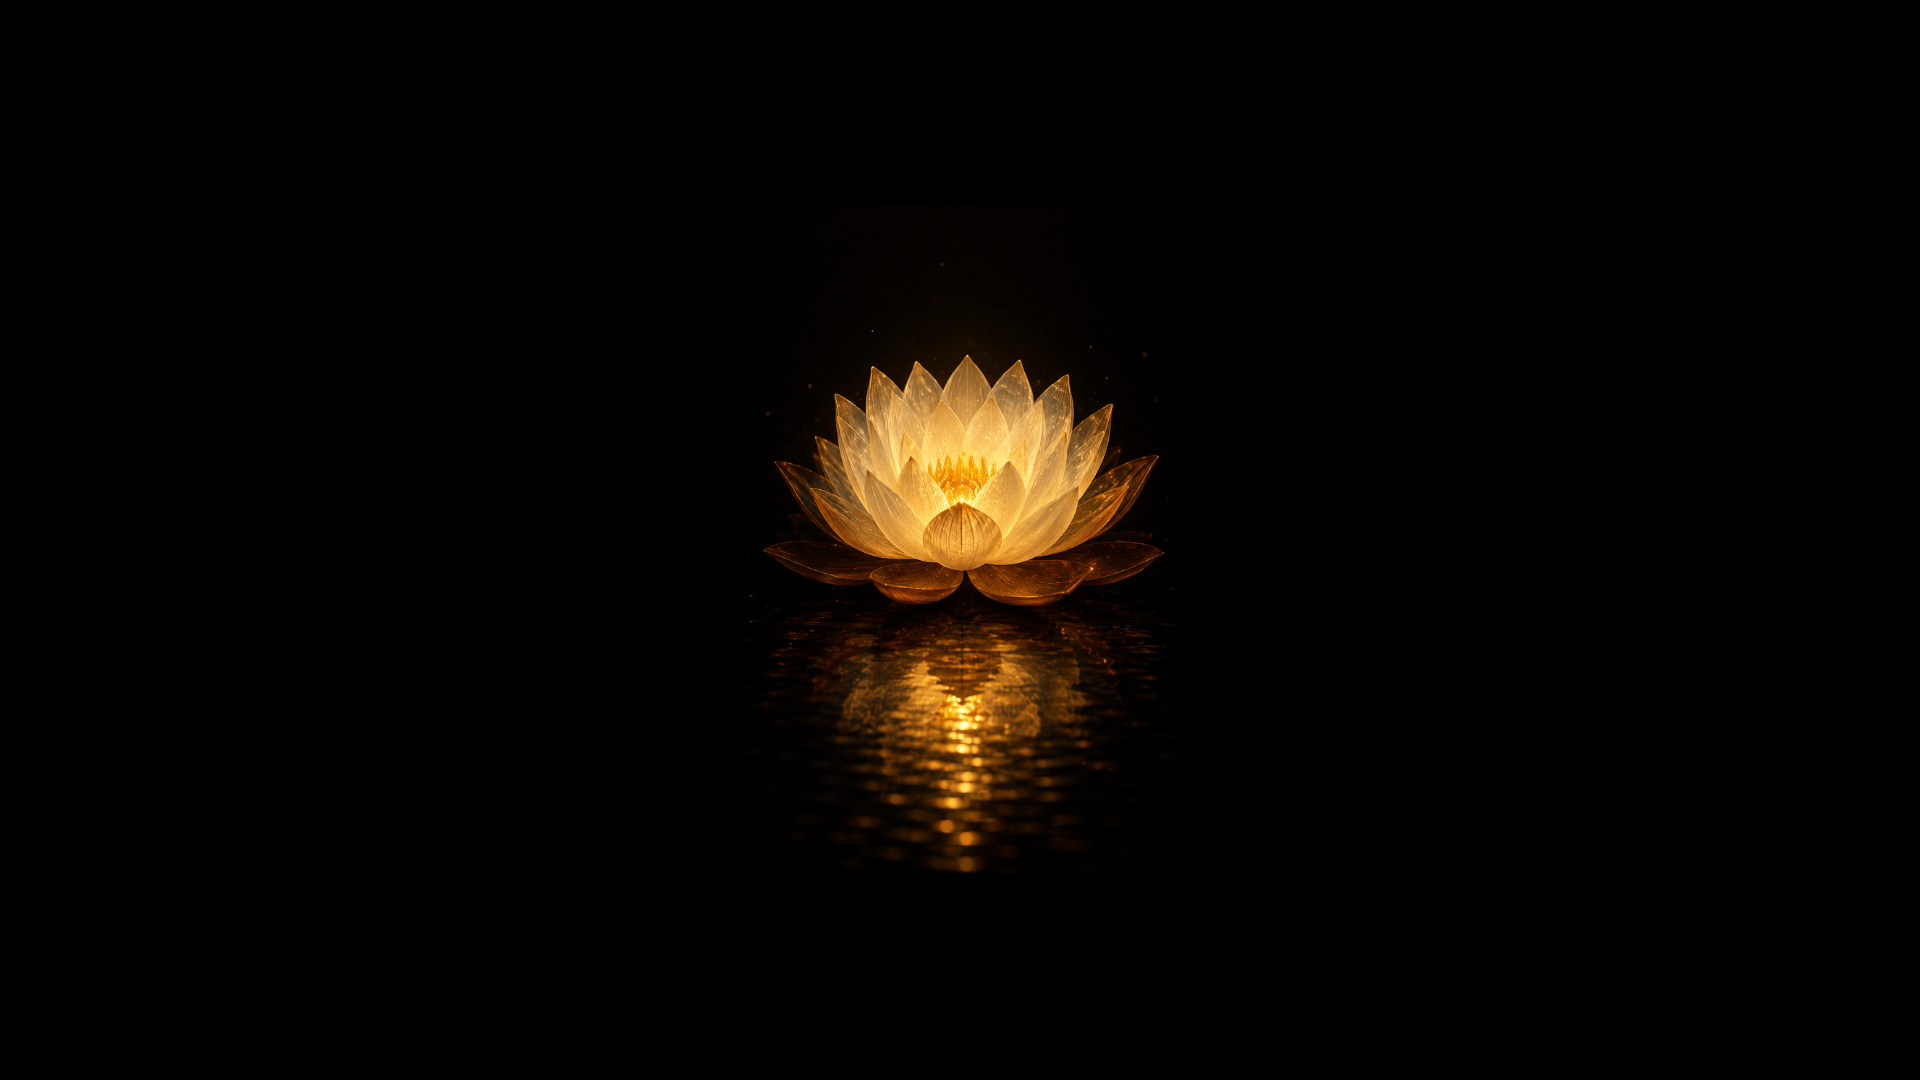
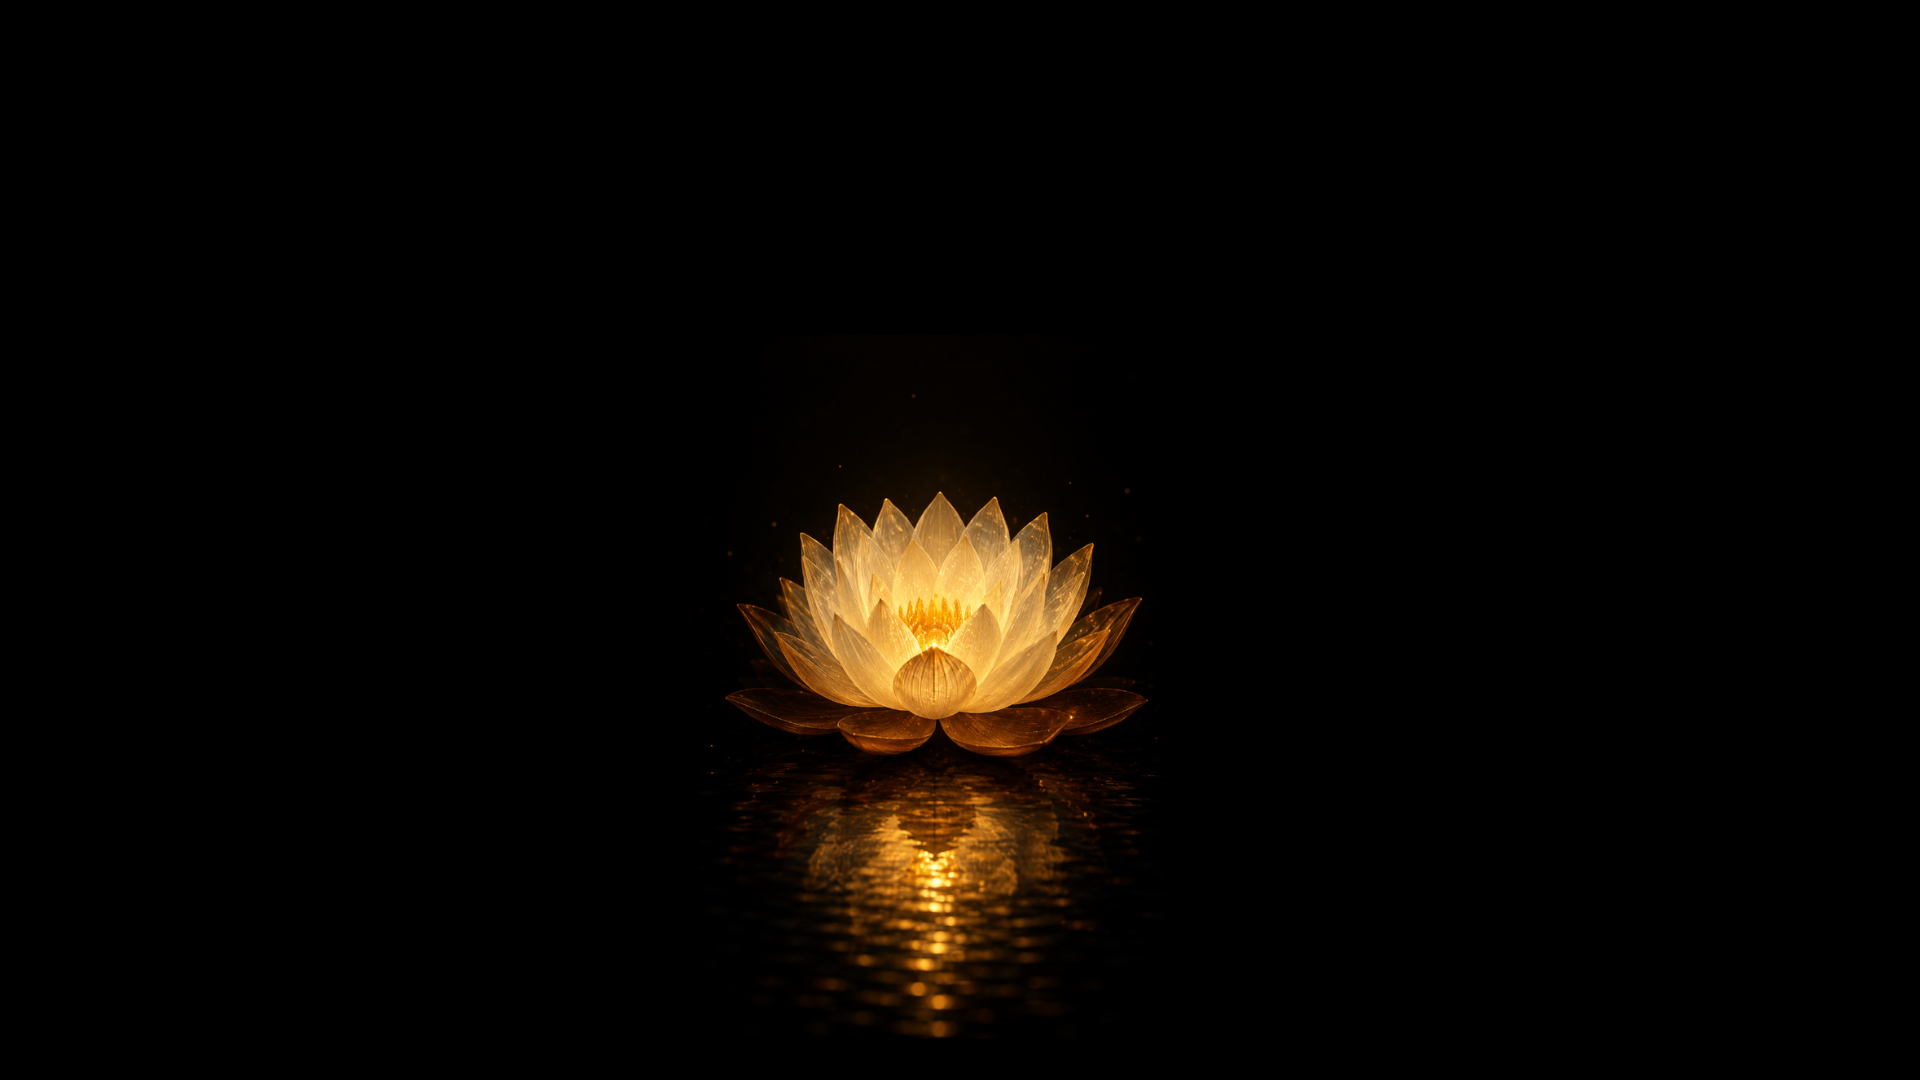
Lotus BREATHE — rectangle removed, screen blend mode, full immersion

Changed region(s): [[0.375, 0.3361, 0.625, 0.9778]]

diff --git a/components/threshold/PathwayOpening.tsx b/components/threshold/PathwayOpening.tsx
@@ -92,19 +92,19 @@ export default function PathwayOpening({ onComplete, isReturn = false }: Pathway
       }}
     >
       {/* Lotus background */}
-      <div
-        style={{
-          position: 'absolute',
-          inset: 0,
-          backgroundImage: 'url(/lotus-breathe.png)',
-          backgroundSize: 'auto 80%',
-          backgroundPosition: 'center 60%',
-          backgroundRepeat: 'no-repeat',
-          opacity: phase === 'dark' ? 0 : 1,
-          transition: 'opacity 3.2s cubic-bezier(0.23, 1, 0.32, 1)',
-          filter: 'brightness(0.88)',
-        }}
-      />
+<div
+  style={{
+    position: 'absolute',
+    inset: 0,
+    backgroundImage: 'url(/lotus-breathe.png)',
+    backgroundSize: 'auto 80%',
+    backgroundPosition: 'center 60%',
+    backgroundRepeat: 'no-repeat',
+    opacity: phase === 'dark' ? 0 : 1,
+    transition: 'opacity 3.2s cubic-bezier(0.23, 1, 0.32, 1)',
+    mixBlendMode: 'screen' as const,
+  }}
+/>
 
       {/* Radial glow over lotus center */}
       <div